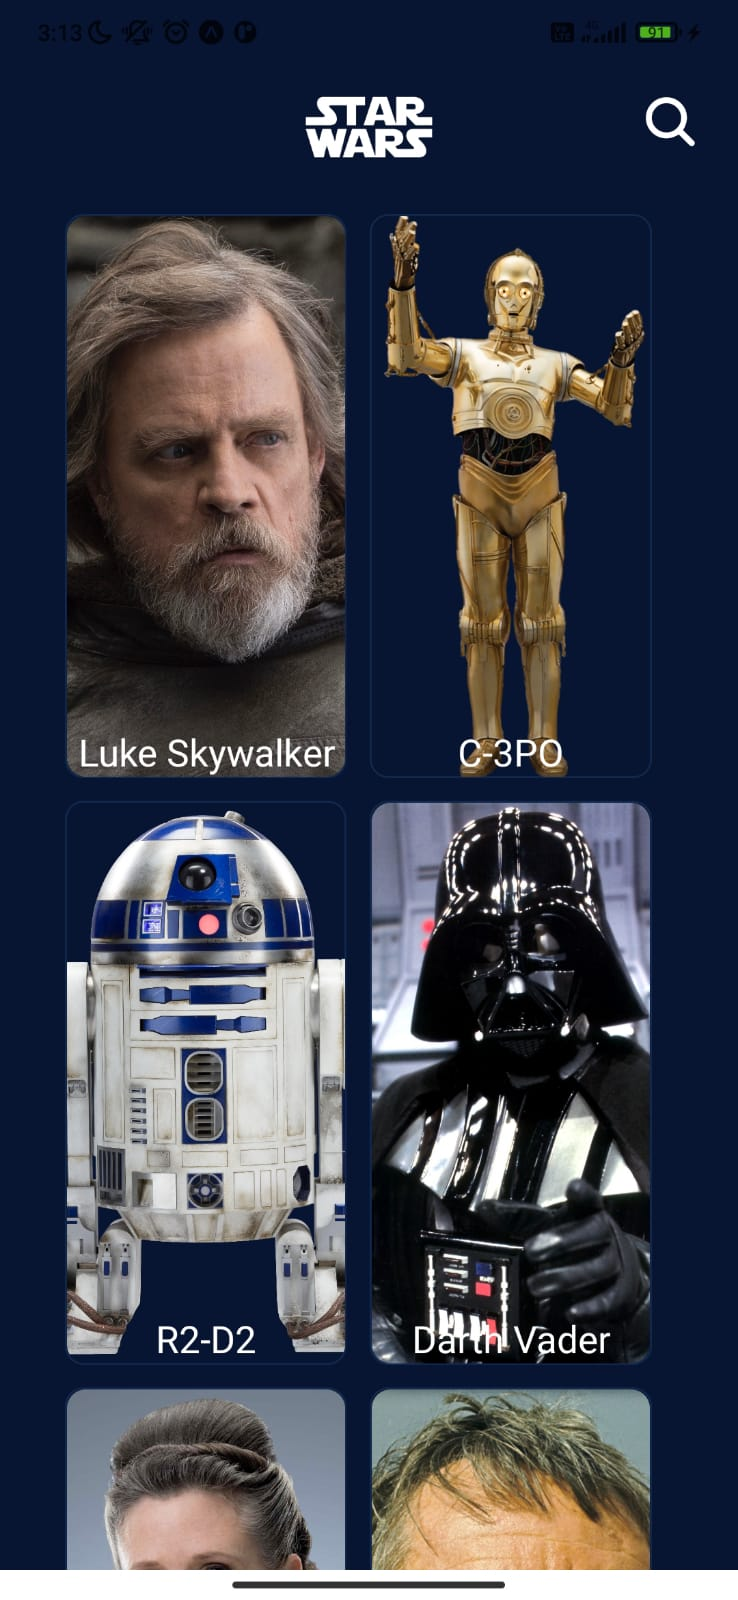
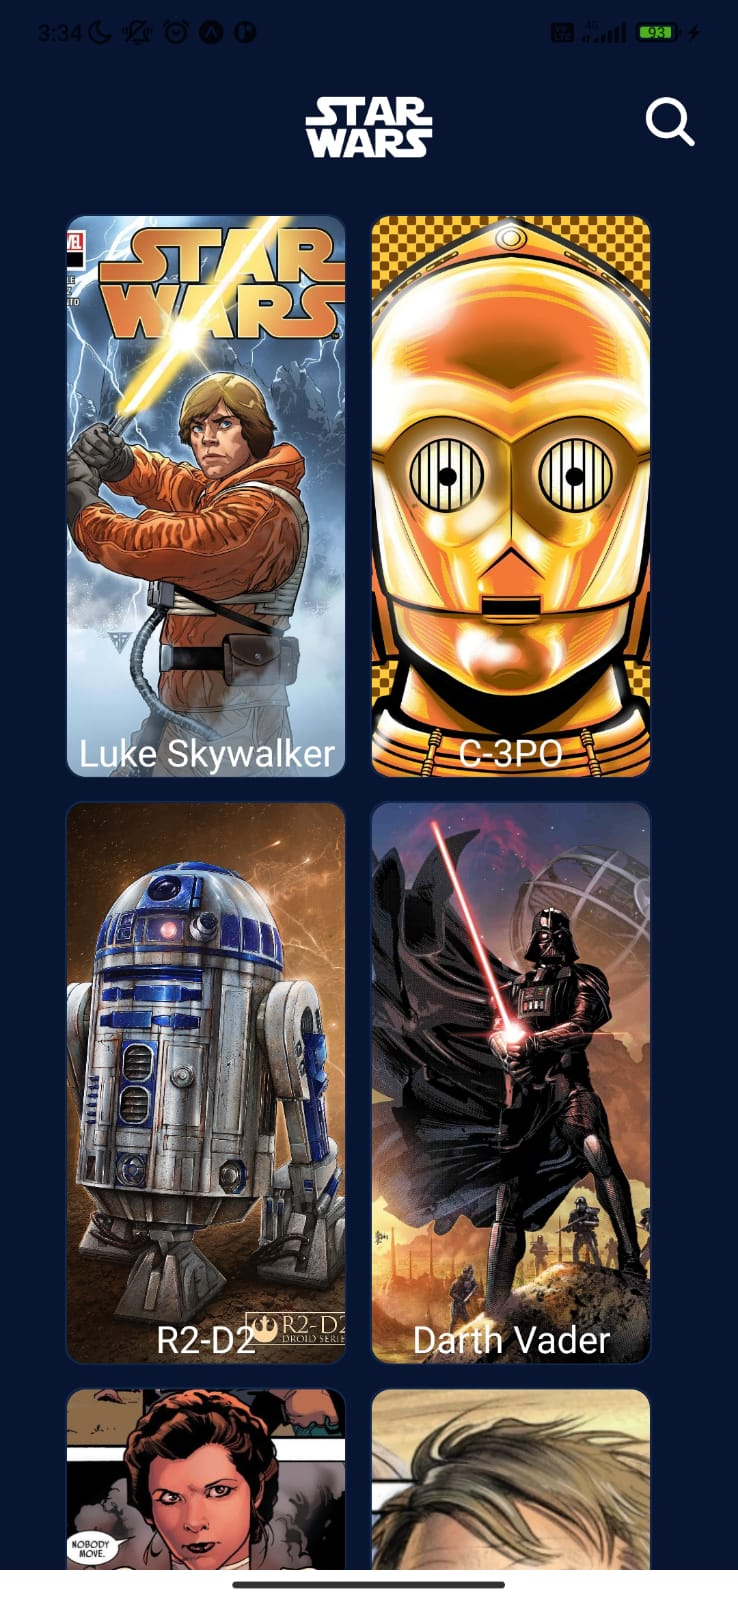
update images

diff --git a/utils/Constants.js b/utils/Constants.js
@@ -43,12 +43,12 @@ export const CATEGORY_DATAS = [
 ];
 
 export const CHARACTERS_IMAGES = [
-    { id: 1, image: "https://vignette.wikia.nocookie.net/starwars/images/2/20/LukeTLJ.jpg" },
-    { id: 2, image: "https://vignette.wikia.nocookie.net/starwars/images/3/3f/C-3PO_TLJ_Card_Trader_Award_Card.png" },
-    { id: 3, image: "https://vignette.wikia.nocookie.net/starwars/images/e/eb/ArtooTFA2-Fathead.png" },
-    { id: 4, image: "https://vignette.wikia.nocookie.net/fr.starwars/images/3/32/Dark_Vador.jpg" },
-    { id: 5, image: "https://vignette.wikia.nocookie.net/starwars/images/f/fc/Leia_Organa_TLJ.png" },
-    { id: 6, image: "https://vignette.wikia.nocookie.net/starwars/images/e/eb/OwenCardTrader.png" },
+    { id: 1, image: "https://terrigen-cdn-dev.marvel.com/content/prod/1x/clean_190.jpg" },
+    { id: 2, image: "https://i.pinimg.com/originals/a2/21/8e/a2218e051fcd0232d8907d116f945517.jpg" },
+    { id: 3, image: "https://i.pinimg.com/originals/ab/10/1f/ab101fe0d578470dd53cc42a1adb2166.jpg" },
+    { id: 4, image: "https://pbs.twimg.com/media/DbEvNqEX0AAPQ-_.jpg" },
+    { id: 5, image: "https://i.pinimg.com/originals/de/49/4c/de494c718156266a16312055a9fe9ae1.jpg" },
+    { id: 6, image: "https://comicvine.gamespot.com/a/uploads/scale_small/6/62795/5012547-star%20wars.jpg" },
     { id: 7, image: "https://vignette.wikia.nocookie.net/starwars/images/c/cc/BeruCardTrader.png" },
     { id: 8, image: "https://vignette.wikia.nocookie.net/starwars/images/c/cb/R5-D4_Sideshow.png" },
     { id: 9, image: "https://vignette.wikia.nocookie.net/starwars/images/0/00/BiggsHS-ANH.png" },
